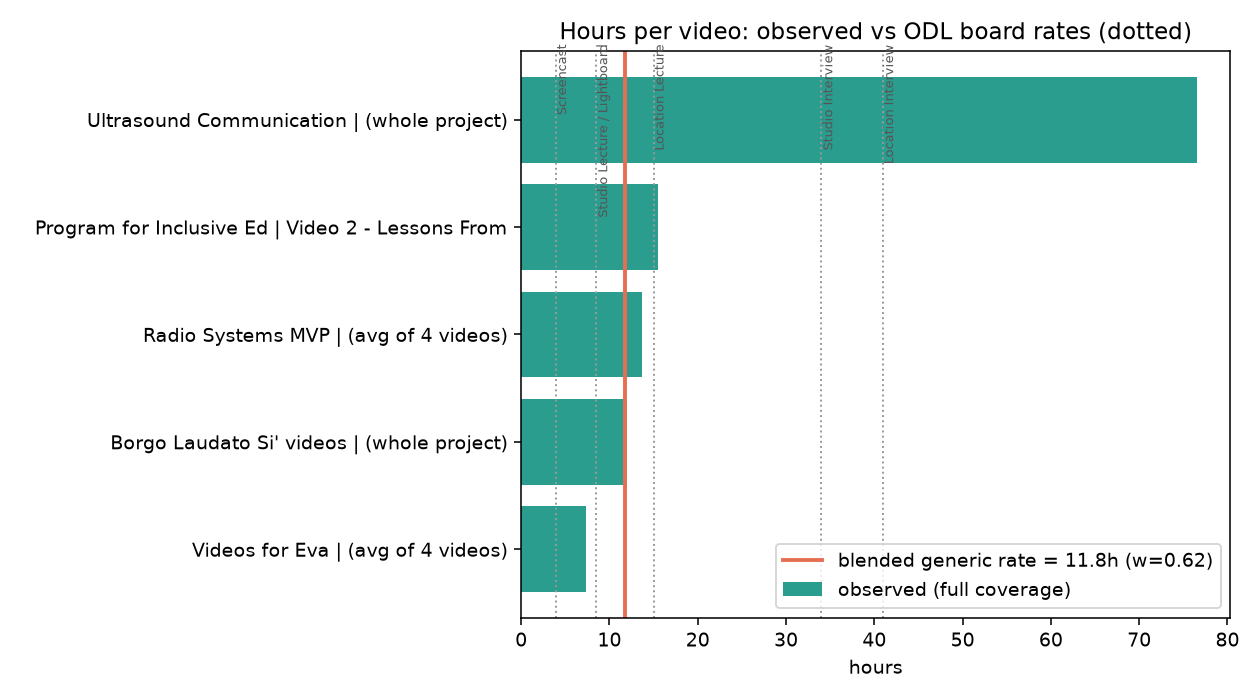
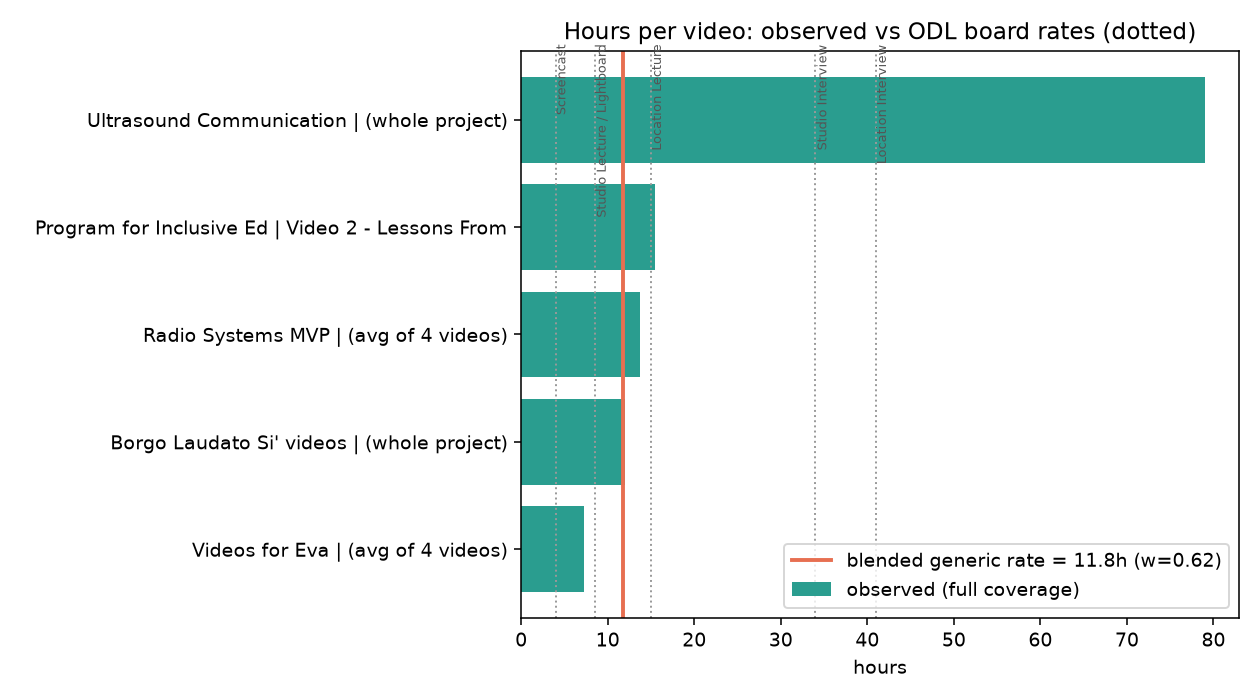
nightly refresh 2026-11-11

diff --git a/faculty_guide/canvas_upload/ODL_Faculty_Onboarding_Guide.html b/faculty_guide/canvas_upload/ODL_Faculty_Onboarding_Guide.html
@@ -335,7 +335,7 @@
   // === BEGIN CALIBRATION (machine-generated — do not edit by hand) ==========
   var CALIBRATION =
   {
-    "provenance": "data_all/time_entries.csv (3,396 entries, 2993.5h, 2024-07-10..2026-11-06, ODL staff time) | 22 full-coverage course-dev projects >=10h (derived/ground_truth.csv); production rates from the 18 of them with >=10h non-PM logging",
+    "provenance": "data_all/time_entries.csv (3,398 entries, 2997.3h, 2024-07-10..2026-11-09, ODL staff time) | 22 full-coverage course-dev projects >=10h (derived/ground_truth.csv); production rates from the 18 of them with >=10h non-PM logging",
     "generated_from": "data_all/derived/calibration.json -- run inject_calibration.py to refresh",
     "archetypeEffort": {
       "course_redesign": {
@@ -361,7 +361,7 @@
         "values": [
           12.0,
           15.5,
-          76.5
+          79.0
         ],
         "p50": 15.5,
         "note": "n<4 -- raw values shown; interpolated quartiles withheld"
@@ -401,8 +401,8 @@
         "p25": 12.0,
         "p50": 13.7,
         "p75": 15.5,
-        "p80": 27.7,
-        "max": 76.5
+        "p80": 28.2,
+        "max": 79.0
       },
       "blendedGenericP50": 11.8,
       "shrinkageW": 0.62

diff --git a/faculty_guide/estimator.js b/faculty_guide/estimator.js
@@ -38,7 +38,7 @@
   // === BEGIN CALIBRATION (machine-generated — do not edit by hand) ==========
   var CALIBRATION =
   {
-    "provenance": "data_all/time_entries.csv (3,396 entries, 2993.5h, 2024-07-10..2026-11-06, ODL staff time) | 22 full-coverage course-dev projects >=10h (derived/ground_truth.csv); production rates from the 18 of them with >=10h non-PM logging",
+    "provenance": "data_all/time_entries.csv (3,398 entries, 2997.3h, 2024-07-10..2026-11-09, ODL staff time) | 22 full-coverage course-dev projects >=10h (derived/ground_truth.csv); production rates from the 18 of them with >=10h non-PM logging",
     "generated_from": "data_all/derived/calibration.json -- run inject_calibration.py to refresh",
     "archetypeEffort": {
       "course_redesign": {
@@ -64,7 +64,7 @@
         "values": [
           12.0,
           15.5,
-          76.5
+          79.0
         ],
         "p50": 15.5,
         "note": "n<4 -- raw values shown; interpolated quartiles withheld"
@@ -104,8 +104,8 @@
         "p25": 12.0,
         "p50": 13.7,
         "p75": 15.5,
-        "p80": 27.7,
-        "max": 76.5
+        "p80": 28.2,
+        "max": 79.0
       },
       "blendedGenericP50": 11.8,
       "shrinkageW": 0.62
